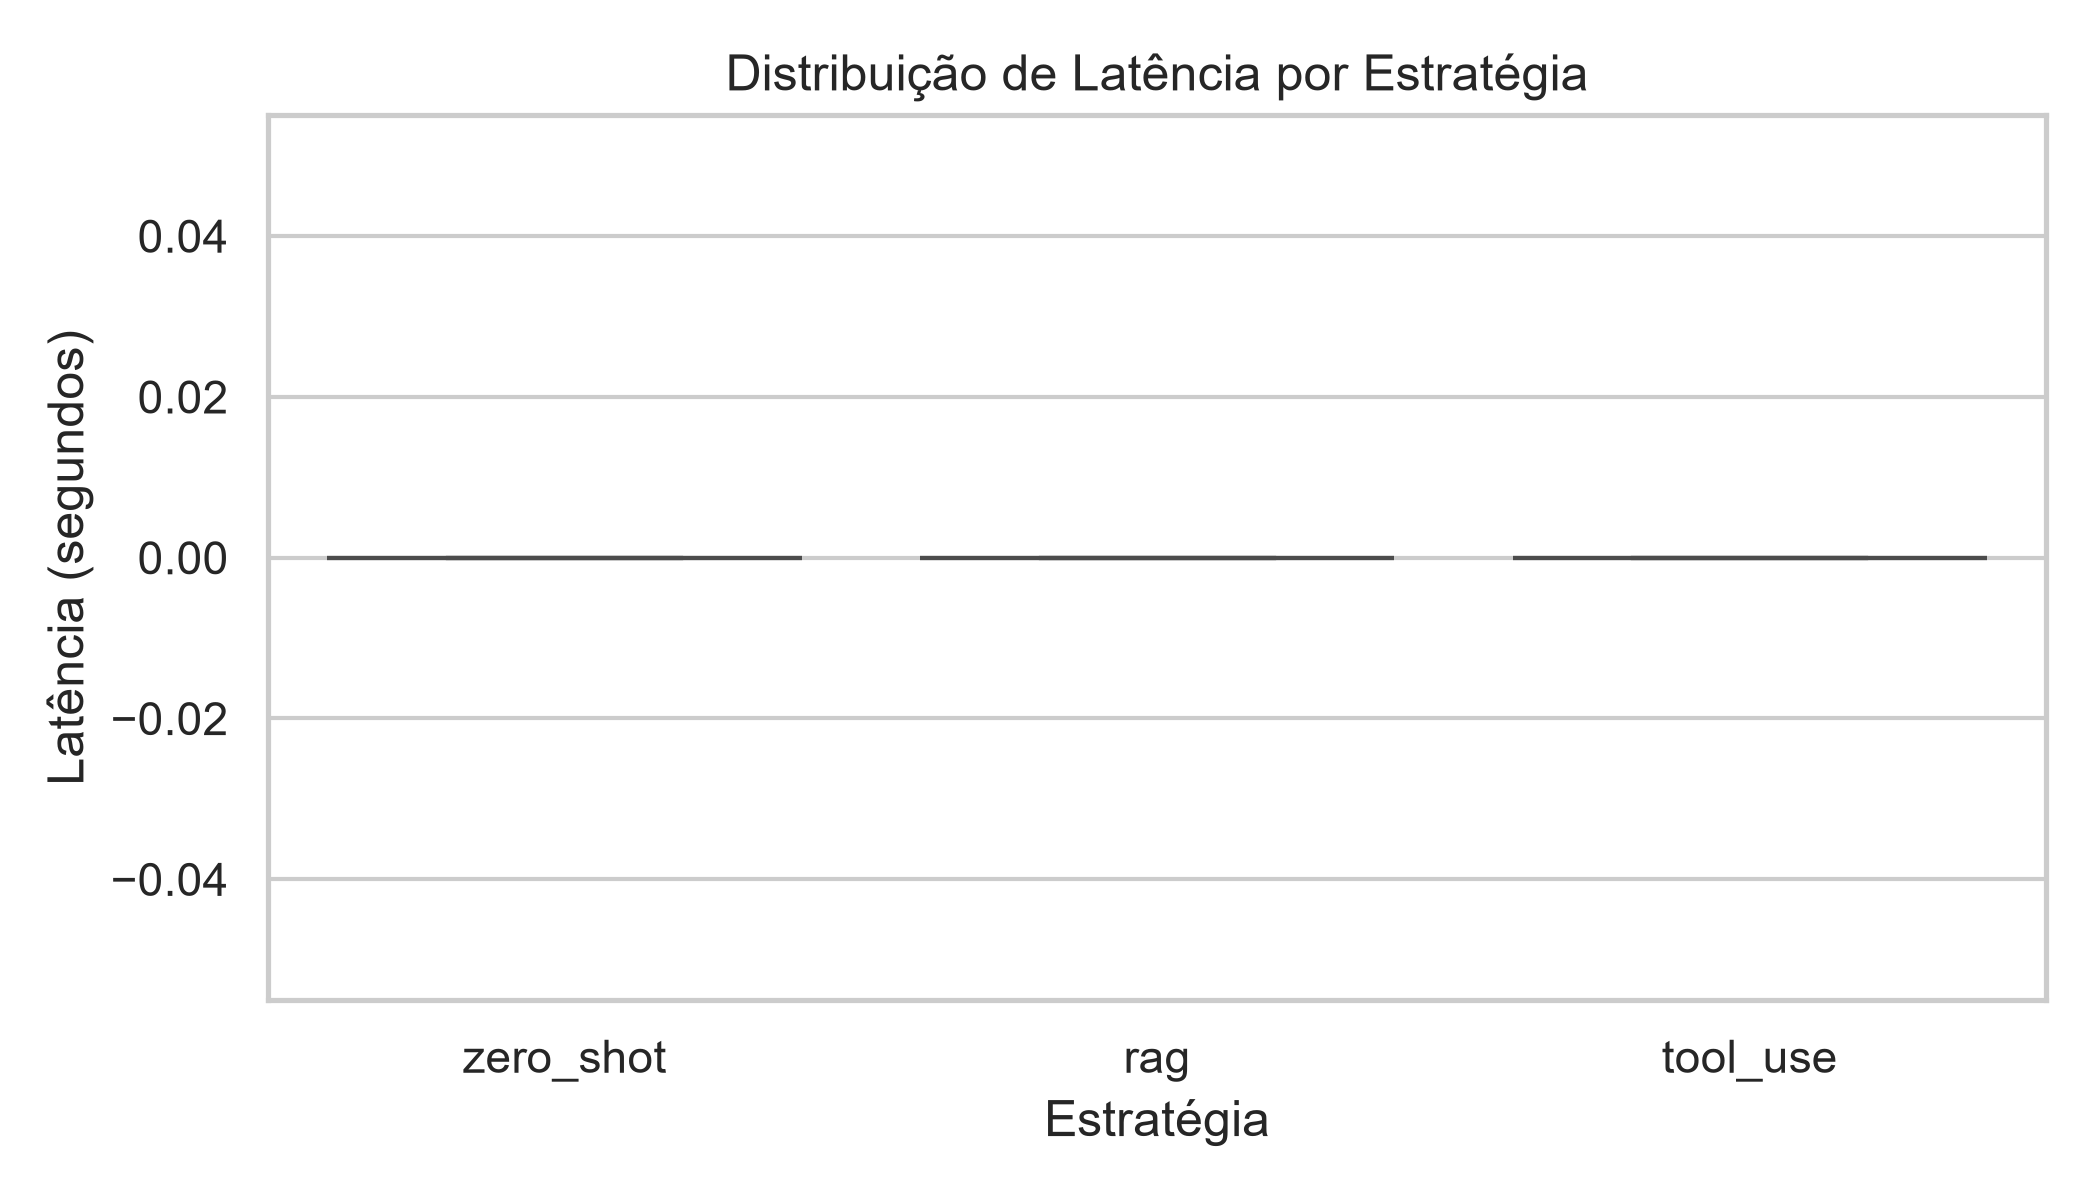
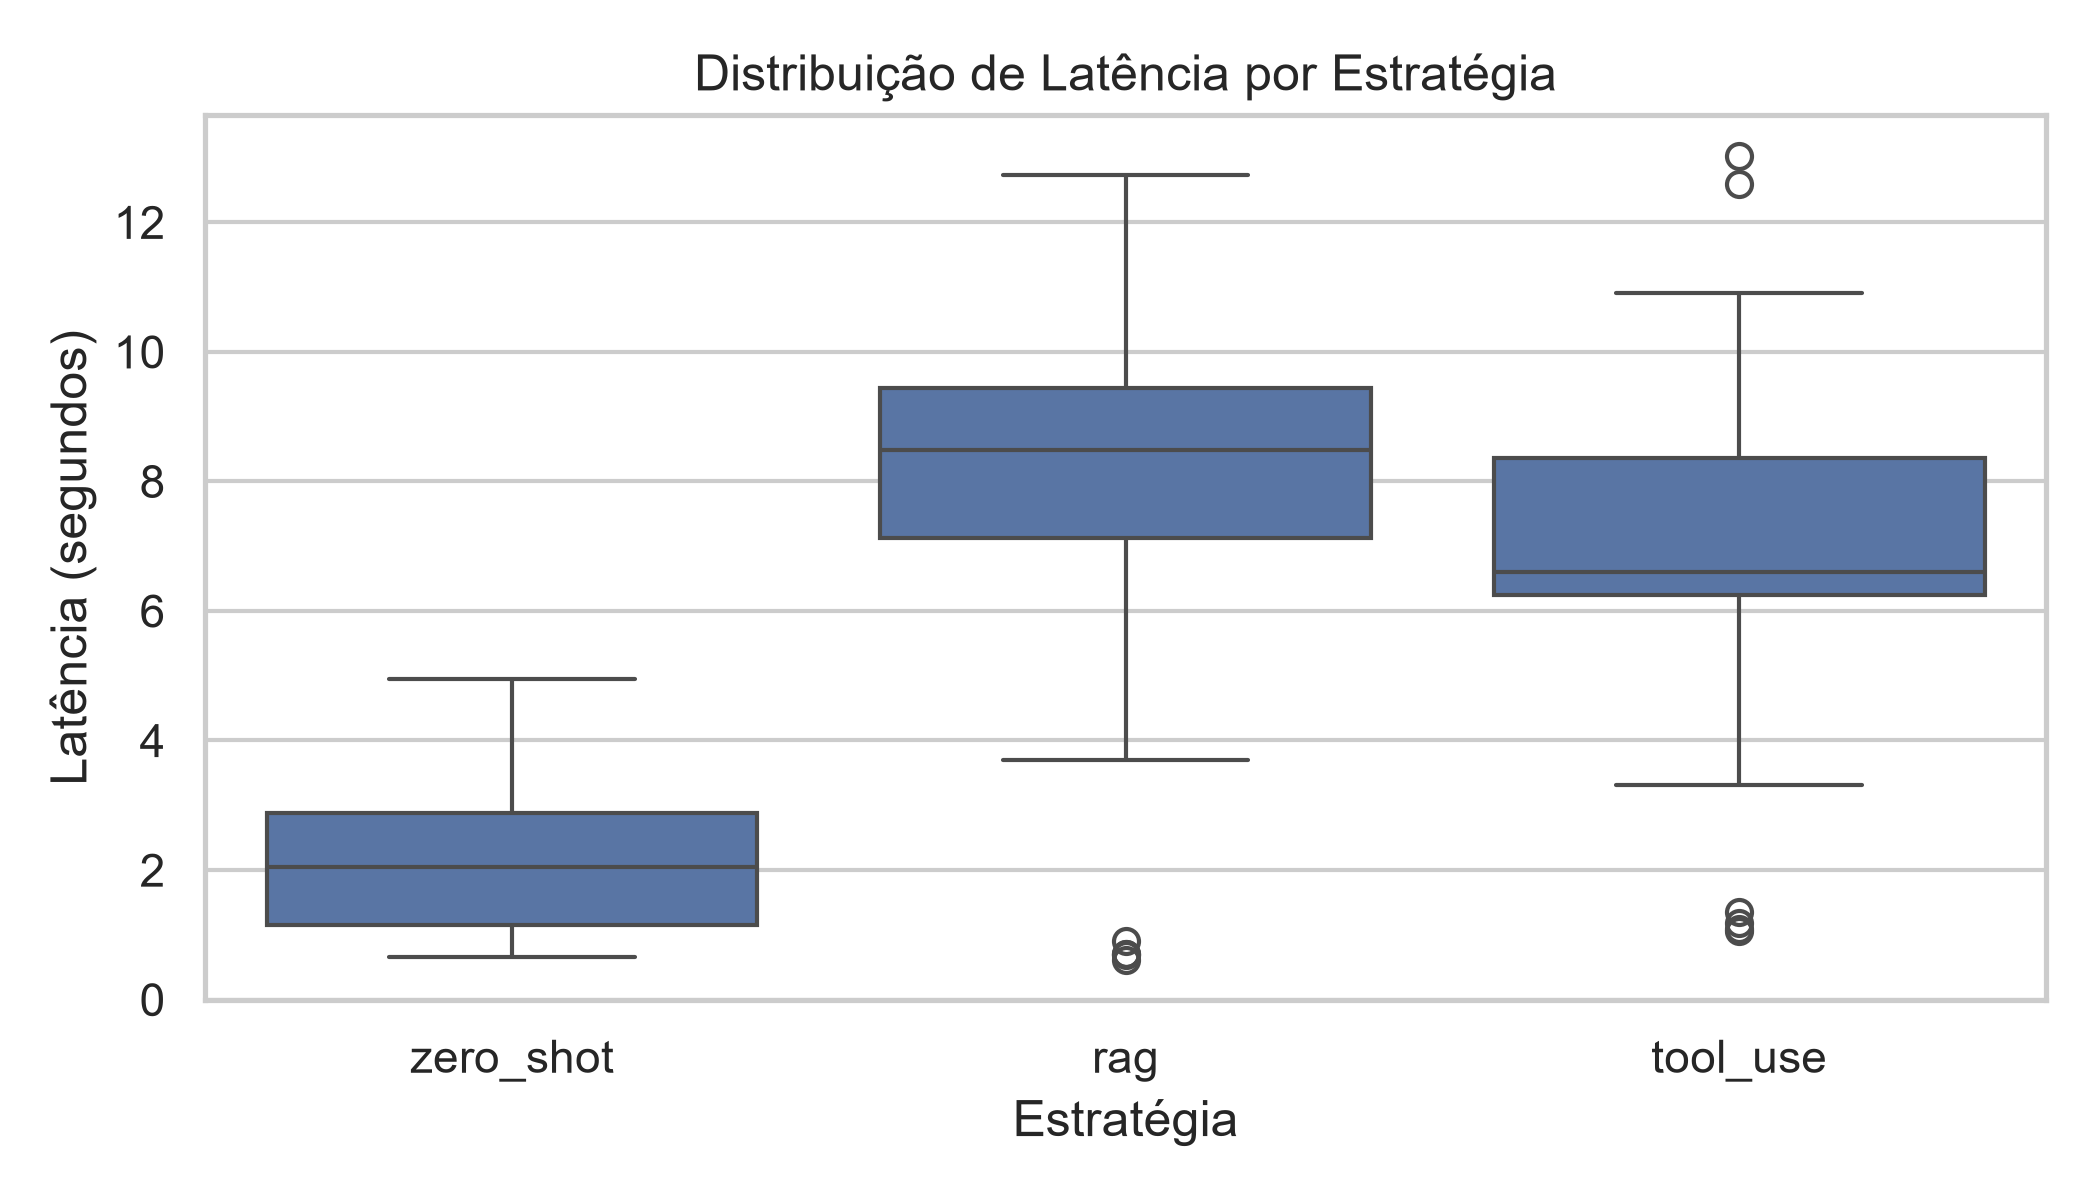
feat: adiciona resultados do benchmark (gpt-oss-120b), gráficos e README

diff --git a/src/s07_run_experiments.py b/src/s07_run_experiments.py
@@ -9,9 +9,9 @@ os.makedirs("results", exist_ok=True)
 
 # Configure aqui os modelos que deseja avaliar
 MODELS_CONFIG = [
-    {"provider": "openai", "model": "gpt-4o-mini"},
+    # {"provider": "openai", "model": "gpt-4o-mini"},
     # {"provider": "gemini", "model": "gemini-2.0-flash"},
-    # {"provider": "groq", "model": "llama-3.3-70b-versatile"},
+    {"provider": "groq", "model": "openai/gpt-oss-120b"},
 ]
 
 def run_all(benchmark_path="data/benchmark.json", output_path="results/raw_outputs.jsonl", limit=None):
